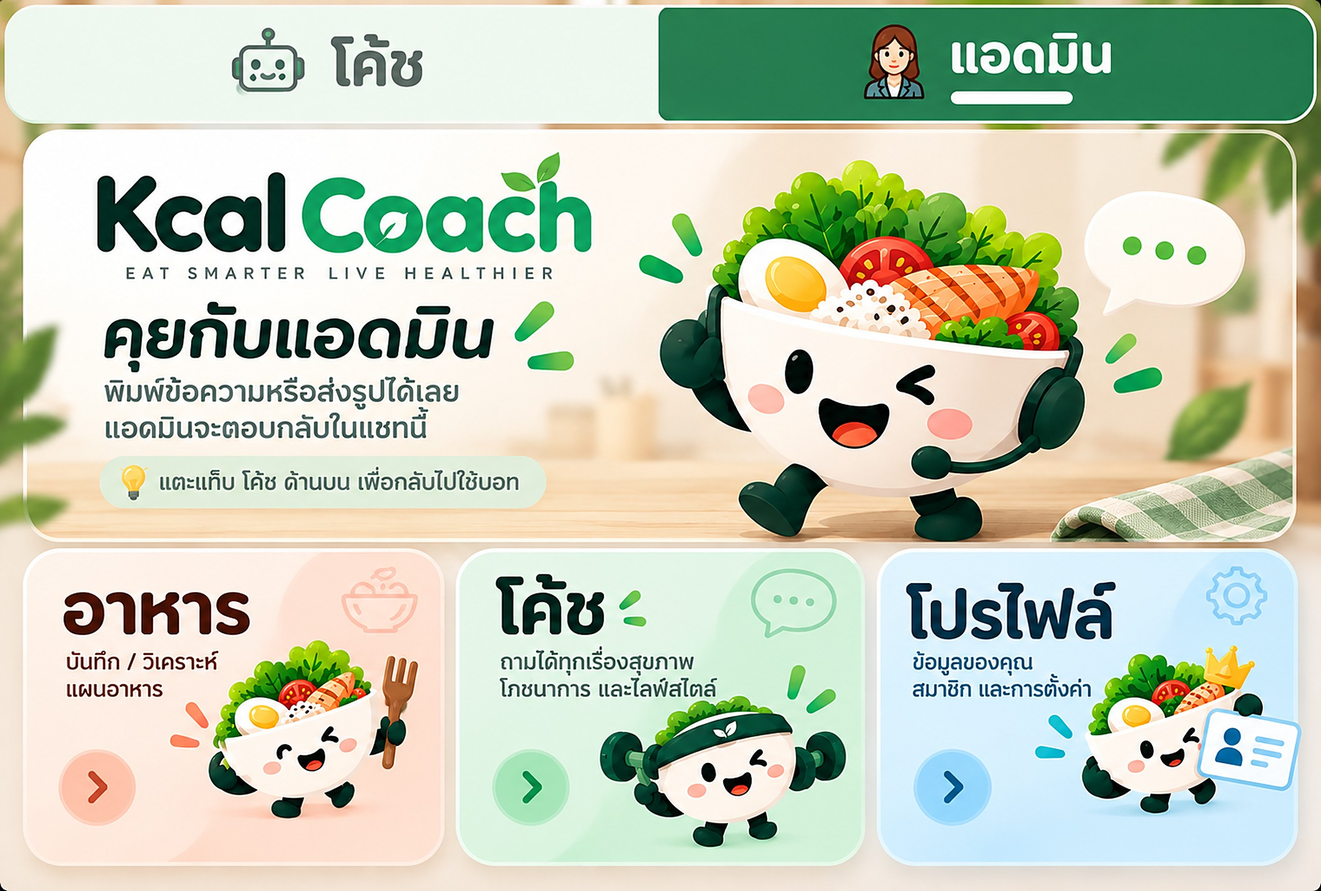
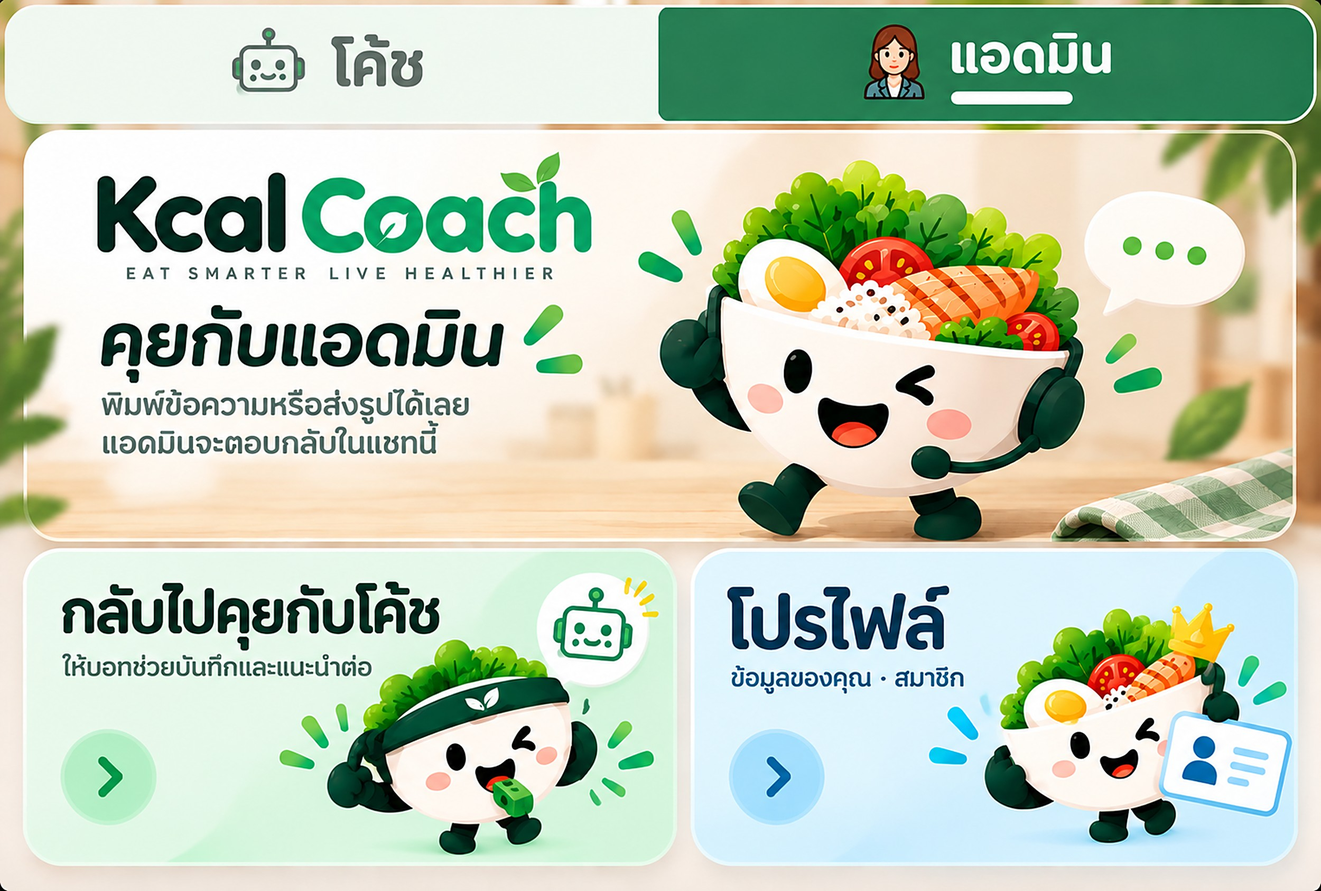
feat(line): rich menu v2 — โค้ชแนะนำ / ประวัติ / โปรไฟล์; admin tab minimal
New images. โค้ช tab: banner → วันนี้, tiles → โค้ชแนะนำ, ประวัติ (LIFF
/history), โปรไฟล์. แอดมิน tab has no bot commands: only 'กลับไปคุยกับโค้ช'
(richmenuswitch) and โปรไฟล์. Re-install from /admin to apply.

Claude-Session: https://claude.ai/code/session_0114emN8AX3tSgQTtst4URSb

diff --git a/src/modules/line/rich-menu.ts b/src/modules/line/rich-menu.ts
@@ -47,23 +47,63 @@ function tabAreas(): Area[] {
   ];
 }
 
-/** The three bottom tiles are the same on both tabs. */
-function tileAreas(liffId: string | null): Area[] {
-  const profileAction: messagingApi.Action = liffId
-    ? { type: 'uri', label: 'โปรไฟล์', uri: `https://liff.line.me/${liffId}` }
+function liffUri(liffId: string, path = ''): string {
+  return `https://liff.line.me/${liffId}${path}`;
+}
+
+function profileAction(liffId: string | null): messagingApi.Action {
+  return liffId
+    ? { type: 'uri', label: 'โปรไฟล์', uri: liffUri(liffId) }
     : { type: 'message', label: 'โปรไฟล์', text: 'โปรไฟล์' };
+}
+
+/** โค้ช tab: banner = today overview; tiles = โค้ชแนะนำ / ประวัติ / โปรไฟล์. */
+function coachAreas(liffId: string | null): Area[] {
+  const historyAction: messagingApi.Action = liffId
+    ? { type: 'uri', label: 'ประวัติ', uri: liffUri(liffId, '/history') }
+    : { type: 'message', label: 'ประวัติ', text: 'ประวัติ' };
   return [
     {
+      bounds: {
+        x: 0,
+        y: TAB_HEIGHT,
+        width: RICH_MENU_SIZE.width,
+        height: TILE_TOP - TAB_HEIGHT,
+      },
+      action: { type: 'message', label: 'ดูภาพรวมวันนี้', text: 'วันนี้' },
+    },
+    {
       bounds: { x: 0, y: TILE_TOP, width: 860, height: TILE_HEIGHT },
-      action: { type: 'message', label: 'อาหาร', text: 'อาหาร' },
+      action: { type: 'message', label: 'โค้ชแนะนำ', text: 'โค้ชแนะนำ' },
     },
     {
       bounds: { x: 860, y: TILE_TOP, width: 790, height: TILE_HEIGHT },
-      action: { type: 'message', label: 'โค้ช', text: 'โค้ช' },
+      action: historyAction,
     },
     {
       bounds: { x: 1650, y: TILE_TOP, width: 850, height: TILE_HEIGHT },
-      action: profileAction,
+      action: profileAction(liffId),
+    },
+  ];
+}
+
+/**
+ * แอดมิน tab: no bot features — only "back to โค้ช" and the profile page.
+ * The banner has no action on purpose.
+ */
+function adminAreas(liffId: string | null): Area[] {
+  return [
+    {
+      bounds: { x: 0, y: TILE_TOP, width: 1293, height: TILE_HEIGHT },
+      action: {
+        type: 'richmenuswitch',
+        richMenuAliasId: RICH_MENU_ALIAS.coach,
+        data: RICH_MENU_POSTBACK.coach,
+      },
+    },
+    {
+      bounds: { x: 1293, y: TILE_TOP, width: 1207, height: TILE_HEIGHT },
+      action: profileAction(liffId),
     },
   ];
 }
@@ -72,19 +112,10 @@ export function buildRichMenu(
   tab: RichMenuTab,
   liffId: string | null,
 ): messagingApi.RichMenuRequest {
-  const areas = [...tabAreas(), ...tileAreas(liffId)];
-  if (tab === 'coach') {
-    // Hero banner with the "ดูภาพรวมวันนี้" button.
-    areas.push({
-      bounds: {
-        x: 0,
-        y: TAB_HEIGHT,
-        width: RICH_MENU_SIZE.width,
-        height: TILE_TOP - TAB_HEIGHT,
-      },
-      action: { type: 'message', label: 'ดูภาพรวมวันนี้', text: 'วันนี้' },
-    });
-  }
+  const areas = [
+    ...tabAreas(),
+    ...(tab === 'coach' ? coachAreas(liffId) : adminAreas(liffId)),
+  ];
   return {
     size: RICH_MENU_SIZE,
     selected: true,

diff --git a/src/modules/line/rich-menu.spec.ts b/src/modules/line/rich-menu.spec.ts
@@ -32,35 +32,47 @@ describe('tabbed rich menu', () => {
     },
   );
 
-  it('both tabs keep the อาหาร / โค้ช / โปรไฟล์ tiles; profile opens LIFF', () => {
-    for (const tab of ['coach', 'admin'] as const) {
-      const actions = buildRichMenu(tab, 'liff-123').areas.map((a) => a.action);
-      expect(actions).toEqual(
-        expect.arrayContaining([
-          expect.objectContaining({ type: 'message', text: 'อาหาร' }),
-          expect.objectContaining({ type: 'message', text: 'โค้ช' }),
-          expect.objectContaining({
-            type: 'uri',
-            uri: 'https://liff.line.me/liff-123',
-          }),
-        ]),
-      );
-    }
+  const actionsOf = (tab: 'coach' | 'admin', liff: string | null) =>
+    (buildRichMenu(tab, liff).areas ?? []).map((a) => a.action);
+
+  it('coach tab: วันนี้ banner, โค้ชแนะนำ, ประวัติ (LIFF /history), โปรไฟล์', () => {
+    expect(actionsOf('coach', 'liff-123')).toEqual(
+      expect.arrayContaining([
+        expect.objectContaining({ type: 'message', text: 'วันนี้' }),
+        expect.objectContaining({ type: 'message', text: 'โค้ชแนะนำ' }),
+        expect.objectContaining({
+          type: 'uri',
+          uri: 'https://liff.line.me/liff-123/history',
+        }),
+        expect.objectContaining({
+          type: 'uri',
+          uri: 'https://liff.line.me/liff-123',
+        }),
+      ]),
+    );
   });
 
-  it('only the coach tab has the "ดูภาพรวมวันนี้" banner', () => {
-    const today = (tab: 'coach' | 'admin') =>
-      buildRichMenu(tab, null).areas.some(
-        (a) => a.action.type === 'message' && a.action.text === 'วันนี้',
-      );
-    expect(today('coach')).toBe(true);
-    expect(today('admin')).toBe(false);
+  it('admin tab: only tabs, back-to-โค้ช and โปรไฟล์ — no bot commands', () => {
+    const actions = actionsOf('admin', 'liff-123');
+    expect(actions).toHaveLength(4);
+    expect(actions.some((a) => a.type === 'message')).toBe(false);
+    expect(actions[2]).toMatchObject({
+      type: 'richmenuswitch',
+      richMenuAliasId: RICH_MENU_ALIAS.coach,
+      data: RICH_MENU_POSTBACK.coach,
+    });
+    expect(actions[3]).toMatchObject({
+      type: 'uri',
+      uri: 'https://liff.line.me/liff-123',
+    });
   });
 
-  it('falls back to the โปรไฟล์ text command without a LIFF id', () => {
-    const actions = buildRichMenu('coach', null).areas.map((a) => a.action);
-    expect(actions).toContainEqual(
-      expect.objectContaining({ type: 'message', text: 'โปรไฟล์' }),
+  it('falls back to text commands without a LIFF id', () => {
+    expect(actionsOf('coach', null)).toEqual(
+      expect.arrayContaining([
+        expect.objectContaining({ type: 'message', text: 'ประวัติ' }),
+        expect.objectContaining({ type: 'message', text: 'โปรไฟล์' }),
+      ]),
     );
   });
 });

diff --git a/docs/RICH_MENU.md b/docs/RICH_MENU.md
@@ -9,8 +9,10 @@ overrides any menu set in LINE OA Manager). Images live in
 - Tab **โค้ช** / **แอดมิน** (top 240 px) use `richmenuswitch` with aliases
   `kcal-coach` / `kcal-admin`; the postback data (`richmenu:coach` /
   `richmenu:admin`) turns the human handoff off/on.
-- Both tabs keep the อาหาร / โค้ช / โปรไฟล์ tiles; only the โค้ช tab has the
-  "ดูภาพรวมวันนี้" banner. โปรไฟล์ opens `https://liff.line.me/$LIFF_ID`.
+- **โค้ช tab:** banner → `วันนี้`; tiles → `โค้ชแนะนำ` (next-meal advice),
+  ประวัติ (`https://liff.line.me/$LIFF_ID/history`), โปรไฟล์ (LIFF).
+- **แอดมิน tab:** no bot commands at all — only "กลับไปคุยกับโค้ช"
+  (`richmenuswitch` → `richmenu:coach`) and โปรไฟล์ (LIFF).
 
 Tiles send these exact texts (`FOOD_COMMANDS` in
 `src/modules/food/food-logging.service.ts`):
